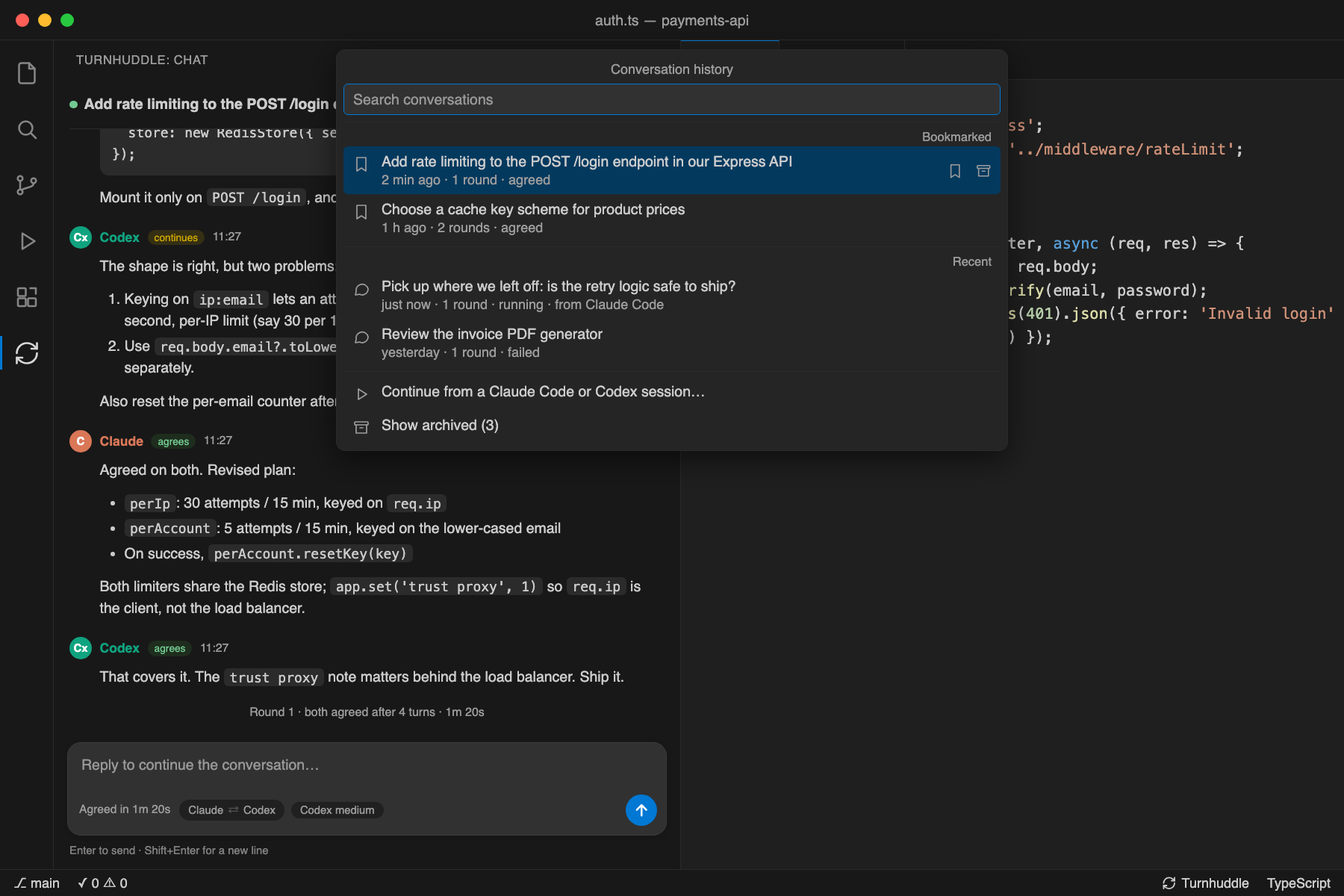
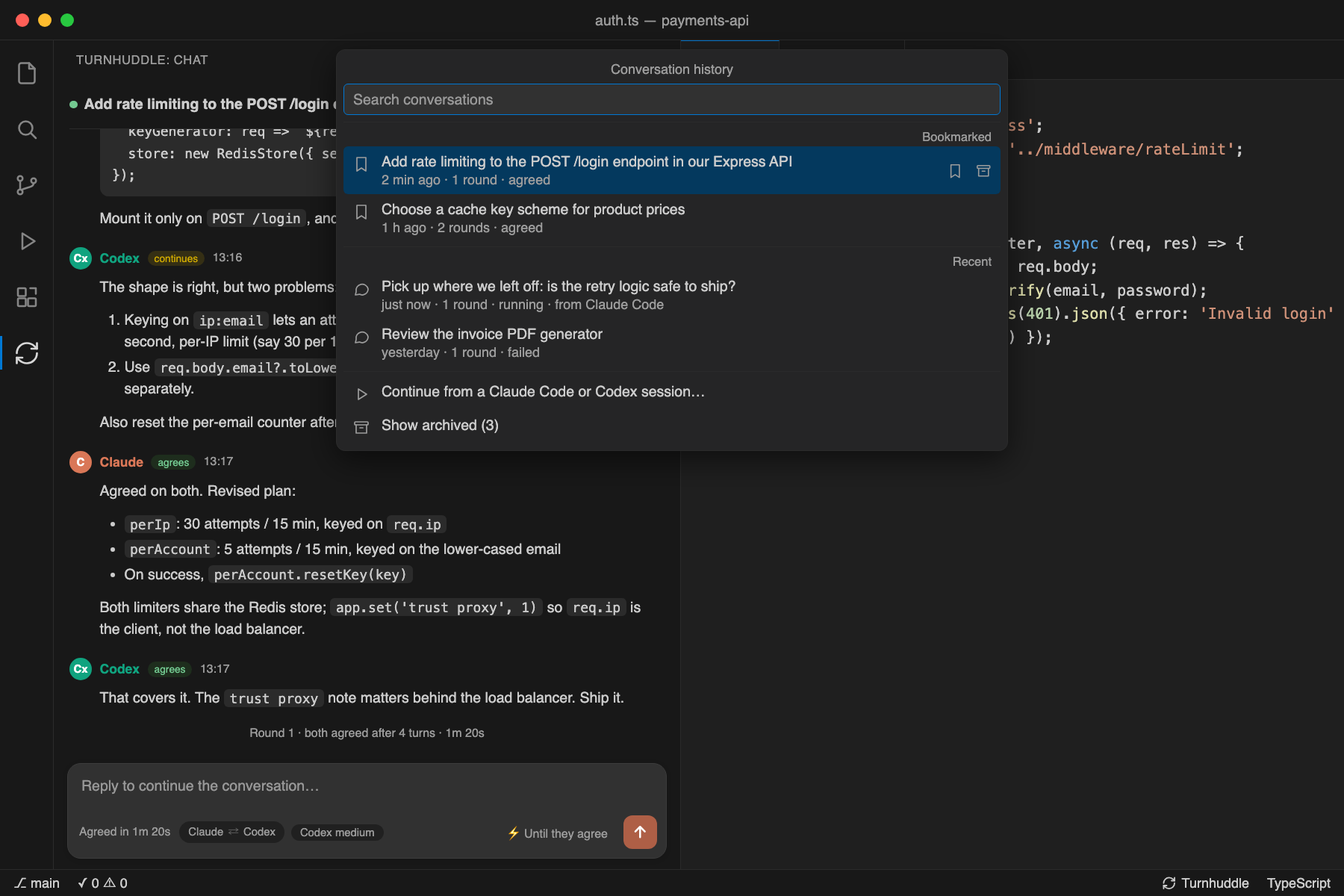
0.2.7: Claude Code-style new chat and named conversations
New chats start as Untitled and take their first line as a name; the
header title renames (empty restores the automatic name). The empty
chat shows the wordmark, both agents, a tip and a dismissible What's new
card. Composer: Ask Claude and Codex…, a round-mode chip, square send.

Changed region(s): [[0.0311, 0.2158, 0.4978, 0.9558], [0.0933, 0.1233, 0.2489, 0.185]]

diff --git a/src/conversationView.ts b/src/conversationView.ts
@@ -13,7 +13,7 @@ export interface Origin { provider: 'claude' | 'codex'; sessionId: string; title
 /** CLI session ids each agent keeps for this conversation, so later turns resume instead of replaying. */
 export type AgentSessions = Partial<Record<'claude' | 'codex', string>>;
 /** The conversation shown in the panel. All times are ISO strings. */
-export interface ConversationState { bookmarked?: boolean; status: Status; task?: string; id?: string; startedAt?: string; roundStartedAt?: string; finishedAt?: string; error?: string; messages: ViewMessage[]; partial?: PartialMessage; origin?: Origin; agentSessions?: AgentSessions; outcome?: RoundOutcome }
+export interface ConversationState { title?: string; bookmarked?: boolean; status: Status; task?: string; id?: string; startedAt?: string; roundStartedAt?: string; finishedAt?: string; error?: string; messages: ViewMessage[]; partial?: PartialMessage; origin?: Origin; agentSessions?: AgentSessions; outcome?: RoundOutcome }
 /** Optional webview URIs for the agents' logos, read from the user's own Claude Code / Codex extensions or media/logos/.
  * `…Dark` variants are used under dark themes. Absent: the built-in initials are used. */
 export type Logos = Partial<Record<'claude' | 'codex' | 'claudeDark' | 'codexDark', string>>;
@@ -80,10 +80,22 @@ export function formatDuration(fromIso: string, toIso: string): string {
   return seconds < 60 ? `${seconds}s` : `${Math.floor(seconds / 60)}m ${seconds % 60}s`;
 }
 /** Short single-line title from the task. */
+/** Title for a conversation started with `task`: its first sentence or line, without Markdown, at most TITLE_CHARS, cut at a word. */
+export function autoTitle(task: string): string {
+  const firstLine = task.split('\n').map(l => l.trim()).find(Boolean) ?? '';
+  const plain = firstLine.replace(/[`*_#>]+/g, '').replace(/\[([^\]]+)\]\([^)]+\)/g, '$1').replace(/\s+/g, ' ').trim();
+  const sentence = (plain.match(/^.+?[.?!](?=\s|$)/) ?? [plain])[0];
+  if (!sentence) return UNTITLED;
+  if (sentence.length <= TITLE_CHARS) return sentence.replace(/[.]$/, '');
+  const cut = sentence.slice(0, TITLE_CHARS - 1);
+  const space = cut.lastIndexOf(' ');
+  return `${(space > TITLE_CHARS / 2 ? cut.slice(0, space) : cut).replace(/[,;:.\s]+$/, '')}…`;
+}
+export const UNTITLED = 'Untitled';
+/** The name shown for a conversation: one the user gave it, else the automatic one, else "Untitled". */
 export function conversationTitle(state: ConversationState): string {
-  const text = (state.task ?? '').replace(/\s+/g, ' ').trim();
-  if (!text) return 'New conversation';
-  return text.length > TITLE_CHARS ? `${text.slice(0, TITLE_CHARS - 1).trimEnd()}…` : text;
+  if (state.title?.trim()) return state.title.trim();
+  return state.task?.trim() ? autoTitle(state.task) : UNTITLED;
 }
 /** Agent turns taken so far in the current round. A round starts at `roundStartedAt`; messages from earlier rounds do not count. */
 export function turnsInRound(state: ConversationState): number {
@@ -144,6 +156,7 @@ const ICONS = {
   stop: '<svg viewBox="0 0 16 16" aria-hidden="true"><rect x="4" y="4" width="8" height="8" rx="1.5" fill="currentColor"/></svg>',
   bookmark: '<svg viewBox="0 0 16 16" aria-hidden="true"><path d="M4.5 2.5h7a.5.5 0 0 1 .5.5v10.6l-4-2.6-4 2.6V3a.5.5 0 0 1 .5-.5z" stroke="currentColor" stroke-width="1.3" stroke-linejoin="round" fill="none"/></svg>',
   bookmarked: '<svg viewBox="0 0 16 16" aria-hidden="true"><path d="M4.5 2.5h7a.5.5 0 0 1 .5.5v10.6l-4-2.6-4 2.6V3a.5.5 0 0 1 .5-.5z" stroke="currentColor" stroke-width="1.3" stroke-linejoin="round" fill="currentColor"/></svg>',
+  close: '<svg viewBox="0 0 16 16" aria-hidden="true"><path d="M4 4l8 8M12 4l-8 8" stroke="currentColor" stroke-width="1.5" stroke-linecap="round"/></svg>',
   newChat: '<svg viewBox="0 0 16 16" aria-hidden="true"><path d="M8 2.5a5.5 5.5 0 0 1 0 11c-.9 0-1.8-.2-2.6-.6L2.5 13.5l.7-2.7A5.5 5.5 0 0 1 8 2.5z" stroke="currentColor" stroke-width="1.3" stroke-linejoin="round" fill="none"/><path d="M8 5.8v4.4M5.8 8h4.4" stroke="currentColor" stroke-width="1.3" stroke-linecap="round"/></svg>'
 };
 /** Title row, laid out like Claude Code's: a state dot, the title, then Bookmark, History and New conversation.
@@ -151,12 +164,13 @@ const ICONS = {
 export function renderHeader(state: ConversationState): string {
   const idle = state.status === 'idle';
   const tooltip = state.id ? `Conversation ${state.id}` : 'No conversation yet';
-  const title = idle ? 'Turnhuddle' : conversationTitle(state);
+  const title = idle ? UNTITLED : conversationTitle(state);
   const label = statusLabel(state);
   const origin = state.origin && !idle ? `<span class="origin" title="${escapeHtml(`Continued from ${ROLE_LABELS[state.origin.provider]} session ${state.origin.sessionId}: ${state.origin.title}`)}">from ${escapeHtml(ROLE_LABELS[state.origin.provider])}</span>` : '';
   const dot = idle ? '' : `<span class="state" title="${escapeHtml(label)}"><i class="dot" aria-hidden="true"></i><span class="sr">${escapeHtml(label)}</span></span>`;
   const bookmark = `<button class="icon bookmark${state.bookmarked ? ' on' : ''}" type="button" data-command="bookmark" title="${state.bookmarked ? 'Remove bookmark' : 'Bookmark this conversation'}" aria-pressed="${state.bookmarked ? 'true' : 'false'}"${idle ? ' disabled' : ''}>${state.bookmarked ? ICONS.bookmarked : ICONS.bookmark}</button>`;
-  return `<header class="top status-${state.status}${state.outcome ? ` outcome-${state.outcome.kind}` : ''}">${dot}<span class="title" title="${escapeHtml(tooltip)}">${escapeHtml(title)}</span>${origin}${bookmark}<button class="icon" type="button" data-command="history" title="Conversation history">${ICONS.history}</button><button class="icon" type="button" data-command="new" title="New conversation"${idle ? ' disabled' : ''}>${ICONS.newChat}</button></header>`;
+  const titleEl = idle ? `<span class="title" title="${escapeHtml(tooltip)}">${escapeHtml(title)}</span>` : `<button class="title" type="button" data-command="rename" title="${escapeHtml(`Rename · ${tooltip}`)}">${escapeHtml(title)}</button>`;
+  return `<header class="top status-${state.status}${state.outcome ? ` outcome-${state.outcome.kind}` : ''}">${dot}${titleEl}${origin}${bookmark}<button class="icon" type="button" data-command="history" title="Conversation history">${ICONS.history}</button><button class="icon" type="button" data-command="new" title="New conversation"${idle ? ' disabled' : ''}>${ICONS.newChat}</button></header>`;
 }
 /** Values the static shell needs for its toolbar; sent alongside the HTML on every render. */
 export interface RenderMeta { status: Status; stage: number; round: number; turn: number; roundStartedAt?: string; finishedAt?: string; startedAt?: string; outcome?: RoundOutcome }
@@ -164,8 +178,25 @@ export function renderMeta(state: ConversationState): RenderMeta {
   return { status: state.status, stage: currentStage(state), round: rounds(state), turn: state.status === 'running' ? turnsInRound(state) + 1 : turnsInRound(state), roundStartedAt: state.roundStartedAt, finishedAt: state.finishedAt, startedAt: state.startedAt, ...(state.outcome ? { outcome: state.outcome } : {}) };
 }
 /** HTML fragment for the chat area (header, thread, notices). The composer lives in the static page, outside this fragment. */
-export function renderConversation(state: ConversationState, logos: Logos = {}): string {
-  if (state.status === 'idle') return `${renderHeader(state)}<section class="welcome"><div class="welcome-marks">${avatar('claude', logos)}${avatar('codex', logos)}</div><h1>Claude ↔ Codex</h1><p>Describe a task below. Claude proposes an approach, Codex reviews it, then Claude answers the critique. Reply to run another round on the same conversation.</p><p class="fine">Conversations are saved on this machine; open them from the history (the clock above). Several can run at once. The full text also goes to the Turnhuddle Output channel. CLI usage may incur charges.</p></section>`;
+/** Extra content for the welcome screen. */
+export interface WelcomeOptions { /** Show the "What's new in <version>" card for this version. */ whatsNew?: string }
+/** One-line tips under the wordmark, one shown per new conversation (chosen in the webview). */
+export const TIPS = [
+  'Claude proposes, Codex reviews, and they keep going until both agree.',
+  'Bookmark a conversation to keep it at the top of your history.',
+  'Reply to a finished round to dig deeper. Both agents see the whole conversation.',
+  'Continue a session you started in the Claude Code or Codex CLI from the history.',
+  'Click a conversation\u2019s title to rename it.',
+  'Set how hard Codex and Claude think in Turnhuddle\u2019s settings.'
+];
+const MARK = '<svg class="mark" viewBox="0 0 24 24" aria-hidden="true"><path d="M3 12a9 9 0 0 1 9-9 9.75 9.75 0 0 1 6.74 2.74L21 8" stroke="var(--th-claude)" stroke-width="2.2" fill="none" stroke-linecap="round" stroke-linejoin="round"/><path d="M21 3v5h-5" stroke="var(--th-claude)" stroke-width="2.2" fill="none" stroke-linecap="round" stroke-linejoin="round"/><path d="M21 12a9 9 0 0 1-9 9 9.75 9.75 0 0 1-6.74-2.74L3 16" stroke="var(--th-codex)" stroke-width="2.2" fill="none" stroke-linecap="round" stroke-linejoin="round"/><path d="M8 16H3v5" stroke="var(--th-codex)" stroke-width="2.2" fill="none" stroke-linecap="round" stroke-linejoin="round"/></svg>';
+/** The new-conversation screen, laid out like Claude Code's: wordmark, the two agents, a tip, and a dismissible what's-new card. */
+export function renderWelcome(logos: Logos = {}, options: WelcomeOptions = {}): string {
+  const card = options.whatsNew ? `<section class="whats-new"><header><span>What's new in ${escapeHtml(options.whatsNew)}</span><button class="icon" type="button" data-command="dismiss-whats-new" title="Dismiss">${ICONS.close}</button></header><p>See what changed in this version, with screenshots.</p><a href="https://sibinms.github.io/turnhuddle/whats-new/#v${escapeHtml(options.whatsNew)}">Read the release notes →</a></section>` : '';
+  return `<section class="welcome"><div class="wordmark">${MARK}<span>Turnhuddle</span></div><div class="welcome-marks">${avatar('claude', logos)}<i class="vs">⇄</i>${avatar('codex', logos)}</div><p class="tip" data-tips="${escapeHtml(JSON.stringify(TIPS))}">${escapeHtml(TIPS[0])}</p>${card}</section>`;
+}
+export function renderConversation(state: ConversationState, logos: Logos = {}, options: WelcomeOptions = {}): string {
+  if (state.status === 'idle') return `${renderHeader(state)}${renderWelcome(logos, options)}`;
   const running = state.status === 'running';
   const user = (content: string, time: string) => `<article class="msg msg-user"><div class="msg-meta"><time datetime="${escapeHtml(time)}">${formatTime(time)}</time></div><div class="user-card"><div class="content">${renderMarkdown(content)}</div></div></article>`;
   const verdictTag = (verdict?: Verdict) => verdict ? `<span class="verdict verdict-${verdict}" title="${verdict === 'agree' ? 'Considers the current recommendation final' : 'Wants further changes'}">${verdict === 'agree' ? 'agrees' : 'continues'}</span>` : '';
@@ -224,7 +255,18 @@ button:disabled { cursor: default; opacity: 0.4; }
 .verdict-continue { background: rgba(204, 167, 0, 0.16); color: var(--vscode-editorWarning-foreground, #cca700); }
 .done-agreed { color: var(--vscode-testing-iconPassed, #4cb04a); } .done-limit { color: var(--vscode-editorWarning-foreground, #cca700); }
 @keyframes pulse-dot { 50% { opacity: 0.35; } }
-.welcome { text-align: center; padding: 36px 10px 20px; }
+.welcome { text-align: center; padding: 28px 10px 20px; display: flex; flex-direction: column; align-items: center; }
+.wordmark { display: flex; align-items: center; gap: 8px; font: 500 1.75em/1.1 "Tiempos Text", "Iowan Old Style", Georgia, serif; letter-spacing: -0.01em; color: var(--vscode-foreground); margin: 6px 0 26px; }
+.wordmark .mark { width: 26px; height: 26px; }
+.welcome-marks { align-items: center; } .welcome-marks .vs { font-style: normal; color: var(--th-muted); font-size: 1.1em; }
+.welcome .avatar { width: 40px !important; height: 40px !important; font-size: 15px !important; }
+.tip { max-width: 30em; margin: 22px auto 26px !important; font-size: 1.02em; color: var(--th-muted); line-height: 1.55; }
+.whats-new { width: 100%; max-width: 420px; text-align: left; border: 1px solid var(--th-border); border-radius: 12px; background: var(--th-surface); overflow: hidden; }
+.whats-new header { display: flex; align-items: center; justify-content: space-between; padding: 12px 14px; border-bottom: 1px solid var(--th-border); font-weight: 700; color: var(--th-claude); }
+.whats-new p { margin: 12px 14px 6px !important; color: var(--vscode-foreground) !important; }
+.whats-new a { display: inline-block; margin: 0 14px 14px; color: var(--vscode-textLink-foreground); text-decoration: none; } .whats-new a:hover { text-decoration: underline; }
+button.title { all: unset; flex: 1; min-width: 0; font-weight: 600; white-space: nowrap; overflow: hidden; text-overflow: ellipsis; cursor: text; border-radius: 4px; padding: 1px 3px; margin-left: -3px; }
+button.title:hover { background: var(--th-surface); } button.title:focus-visible { outline: 1px solid var(--vscode-focusBorder); }
 .welcome-marks { display: flex; justify-content: center; gap: 8px; margin-bottom: 12px; }
 .welcome h1 { font-size: 1.2em; margin: 0 0 8px; } .welcome p { margin: 0 auto 8px; max-width: 34em; color: var(--th-muted); } .welcome .fine { font-size: 0.85em; opacity: 0.8; }
 .thread { display: flex; flex-direction: column; gap: 14px; }
@@ -271,7 +313,7 @@ body.vscode-dark img.logo-dark, body.vscode-high-contrast:not(.vscode-high-contr
 .done { margin: 14px 0 0; text-align: center; font-size: 0.82em; color: var(--th-muted); }
 .composer { flex: none; padding: 6px 12px 10px; background: var(--vscode-sideBar-background, inherit); }
 .composer-box { display: flex; flex-direction: column; border: 1px solid var(--vscode-input-border, var(--th-border)); border-radius: 12px; background: var(--vscode-input-background); box-shadow: 0 1px 4px rgba(0,0,0,0.12); }
-.composer-box:focus-within { border-color: var(--vscode-focusBorder); }
+.composer-box:focus-within { border-color: color-mix(in srgb, var(--th-claude) 75%, transparent); }
 body[data-status="running"] .composer-box { border-color: var(--vscode-focusBorder, var(--th-accent)); }
 textarea { width: 100%; box-sizing: border-box; min-height: 42px; max-height: 200px; padding: 10px 12px 4px; border: 0; outline: 0; resize: none; background: transparent; color: var(--vscode-input-foreground); font-family: inherit; font-size: inherit; line-height: 1.45; }
 textarea::placeholder { color: var(--vscode-input-placeholderForeground); } textarea:disabled { opacity: 0.6; }
@@ -290,9 +332,12 @@ body[data-status="running"] .run-status .spinner { display: inline-block; }
 body[data-status="running"] .pill { display: none; }
 .pill:hover { color: var(--vscode-foreground); }
 .spacer { flex: 1; }
-.round-btn { display: inline-flex; align-items: center; justify-content: center; width: 28px; height: 28px; border-radius: 50%; }
+.round-btn { display: inline-flex; align-items: center; justify-content: center; width: 30px; height: 30px; border-radius: 8px; }
+.mode { display: inline-flex; align-items: center; gap: 5px; padding: 2px 8px; border-radius: 10px; font-size: 0.82em; color: var(--th-muted); white-space: nowrap; }
+.mode:hover { color: var(--vscode-foreground); background: var(--th-surface); }
+body[data-status="running"] .mode { display: none; }
 .round-btn svg { width: 15px; height: 15px; }
-#send { background: var(--th-accent); color: var(--th-accent-fg); } #send:hover:not(:disabled) { background: var(--vscode-button-hoverBackground, var(--th-accent)); }
+#send { background: color-mix(in srgb, var(--th-claude) 80%, black); color: #fff; } #send:hover:not(:disabled) { background: var(--vscode-button-hoverBackground, var(--th-accent)); }
 #send:disabled { opacity: 0.35; }
 #stop { display: none; background: var(--vscode-button-secondaryBackground, var(--th-surface)); color: var(--vscode-button-secondaryForeground, inherit); }
 #stop:hover { background: var(--vscode-button-secondaryHoverBackground, var(--th-surface)); }
@@ -305,17 +350,17 @@ body[data-status="running"] #stop { display: inline-flex; } body[data-status="ru
 <main id="root"></main>
 <footer class="composer">
   <div class="composer-box">
-    <textarea id="task" rows="1" maxlength="${MAX_TASK_CHARS}" placeholder="Describe a task for Claude and Codex to discuss…" aria-label="Task"></textarea>
+    <textarea id="task" rows="1" maxlength="${MAX_TASK_CHARS}" placeholder="Ask Claude and Codex…" aria-label="Message"></textarea>
     <div class="composer-bar">
       <span class="run-status"><i class="spinner" aria-hidden="true"></i><span id="run-text">Ready</span></span>
       <span class="relay" id="relay" title="Claude and Codex alternate until both agree (or the fixed three turns in fixed mode)"><span data-stage="0">Claude</span><i>⇄</i><span data-stage="1">Codex</span><span id="turn" class="turn"></span></span>
       <button id="effort" class="pill" type="button" data-command="settings" title="Turnhuddle settings"></button>
       <span class="spacer"></span>
+      <button id="mode" class="mode" type="button" data-command="mode" title="How a round ends. Click to switch."></button>
       <button id="stop" class="round-btn" type="button" data-command="cancel" title="Stop the running conversation">${ICONS.stop}</button>
-      <button id="send" class="round-btn" type="button" data-command="send" title="Send (Enter)">${ICONS.send}</button>
+      <button id="send" class="round-btn" type="button" data-command="send" title="Send (Enter · Shift+Enter for a new line)">${ICONS.send}</button>
     </div>
   </div>
-  <p class="hint">Enter to send · Shift+Enter for a new line</p>
 </footer>
 <script nonce="${nonce}">
 (function () {
@@ -363,10 +408,14 @@ body[data-status="running"] #stop { display: inline-flex; } body[data-status="ru
     document.body.dataset.status = status;
     const running = status === 'running';
     task.disabled = running; send.disabled = running;
-    task.placeholder = status === 'idle' ? 'Describe a task for Claude and Codex to discuss…' : running ? 'Conversation in progress…' : 'Reply to continue the conversation…';
+    task.placeholder = status === 'idle' ? 'Ask Claude and Codex…' : running ? 'Conversation in progress…' : 'Reply to continue the conversation…';
     runText.textContent = describe(meta);
     for (const stage of document.querySelectorAll('#relay [data-stage]')) { if (Number(stage.dataset.stage) === meta.stage) stage.setAttribute('data-active', ''); else stage.removeAttribute('data-active'); }
     document.getElementById('turn').textContent = running && meta.turn ? '· turn ' + meta.turn + (event.data.maxTurns ? ' of ≤' + event.data.maxTurns : '') : '';
+    const tip = root.querySelector('.tip[data-tips]');
+    if (tip) { try { const tips = JSON.parse(tip.dataset.tips); tip.textContent = tips[Math.floor(Math.random() * tips.length)]; } catch (e) { /* keep the first tip */ } }
+    const modeBtn = document.getElementById('mode');
+    if (typeof event.data.mode === 'string') modeBtn.textContent = event.data.mode === 'fixed' ? '⇉ Fixed round' : '⚡ Until they agree';
     if (typeof event.data.effort === 'string') { effort.textContent = event.data.effort; effort.style.display = event.data.effort ? '' : 'none'; }
     if (running) { tick(); if (!timer) timer = setInterval(tick, 1000); }
     if (atBottom || running) root.scrollTop = root.scrollHeight;
@@ -377,12 +426,15 @@ body[data-status="running"] #stop { display: inline-flex; } body[data-status="ru
   send.addEventListener('click', submit);
   document.getElementById('stop').addEventListener('click', () => vscode.postMessage({ command: 'cancel' }));
   effort.addEventListener('click', () => vscode.postMessage({ command: 'settings' }));
+  document.getElementById('mode').addEventListener('click', () => vscode.postMessage({ command: 'mode' }));
   root.addEventListener('click', event => {
     const button = event.target.closest('button[data-command]');
     if (!button || button.disabled) return;
     if (button.dataset.command === 'new') vscode.postMessage({ command: 'new' });
     else if (button.dataset.command === 'history') vscode.postMessage({ command: 'history' });
     else if (button.dataset.command === 'bookmark') vscode.postMessage({ command: 'bookmark' });
+    else if (button.dataset.command === 'rename') vscode.postMessage({ command: 'rename' });
+    else if (button.dataset.command === 'dismiss-whats-new') { button.closest('.whats-new').remove(); vscode.postMessage({ command: 'dismissWhatsNew' }); }
     else if (button.dataset.command === 'copy') vscode.postMessage({ command: 'copy', index: Number(button.dataset.index) });
   });
   vscode.postMessage({ command: 'ready' });

diff --git a/src/sessions.ts b/src/sessions.ts
@@ -2,7 +2,7 @@
 import { mkdir, readdir, readFile, rename, writeFile } from 'node:fs/promises';
 import { join } from 'node:path';
 import type { RoundOutcome } from './bridge';
-import { AgentSessions, ConversationState, initialState, Origin, startConversation } from './conversationView';
+import { AgentSessions, autoTitle, ConversationState, conversationTitle, initialState, Origin, startConversation } from './conversationView';
 /** A conversation as kept in memory and on disk. Streamed partial text is never stored. */
 export interface StoredConversation extends ConversationState { id: string; task: string; cwd: string; createdAt: string; updatedAt: string; archived: boolean }
 export interface SessionSummary { id: string; title: string; status: ConversationState['status']; createdAt: string; updatedAt: string; archived: boolean; bookmarked: boolean; messages: number; rounds: number; cwd: string; file?: string }
@@ -26,7 +26,7 @@ export function parseStored(value: unknown): StoredConversation | undefined {
   const interrupted = status === 'running' || status === 'idle';
   return {
     id: v.id, task: v.task, cwd: text('cwd') ?? '', createdAt: text('createdAt') ?? text('startedAt') ?? new Date(0).toISOString(), updatedAt: text('updatedAt') ?? text('finishedAt') ?? text('startedAt') ?? new Date(0).toISOString(),
-    archived: v.archived === true, ...(v.bookmarked === true ? { bookmarked: true } : {}), status: interrupted ? 'failed' : status, messages,
+    archived: v.archived === true, ...(v.bookmarked === true ? { bookmarked: true } : {}), ...(typeof v.title === 'string' && v.title.trim() ? { title: v.title.trim().slice(0, 200) } : {}), status: interrupted ? 'failed' : status, messages,
     startedAt: text('startedAt'), roundStartedAt: text('roundStartedAt'), finishedAt: text('finishedAt'),
     error: interrupted ? 'The window closed while this conversation was running.' : text('error'),
     ...(origin ? { origin } : {}), ...(agentSessions && Object.keys(agentSessions).length ? { agentSessions } : {}), ...(outcome && !interrupted ? { outcome } : {})
@@ -61,7 +61,7 @@ export class HistoryStore {
   }
 }
 export function summarize(conversation: StoredConversation, file?: string): SessionSummary {
-  const title = conversation.task.replace(/\s+/g, ' ').trim();
+  const title = conversationTitle(conversation);
   return { id: conversation.id, title: title.length > 80 ? `${title.slice(0, 79)}…` : title, status: conversation.status, createdAt: conversation.createdAt, updatedAt: conversation.updatedAt, archived: conversation.archived, bookmarked: conversation.bookmarked === true, messages: conversation.messages.length, rounds: conversation.messages.filter(m => m.role === 'user').length, cwd: conversation.cwd, file };
 }
 export type ListListener = () => void;
@@ -101,7 +101,7 @@ export class SessionManager {
   }
   /** Starts a new conversation and selects it; `origin` records the CLI session it continues from. */
   create(id: string, task: string, cwd: string, at: Date = new Date(), origin?: Origin): StoredConversation {
-    const conversation: StoredConversation = { ...startConversation(task, at), task, id, cwd, createdAt: at.toISOString(), updatedAt: at.toISOString(), archived: false, ...(origin ? { origin, agentSessions: { [origin.provider]: origin.sessionId } } : {}) };
+    const conversation: StoredConversation = { ...startConversation(task, at), task, title: autoTitle(task), id, cwd, createdAt: at.toISOString(), updatedAt: at.toISOString(), archived: false, ...(origin ? { origin, agentSessions: { [origin.provider]: origin.sessionId } } : {}) };
     this.sessions.set(id, conversation);
     this.selected = id;
     this.persist(id); this.notifyState(); this.notifyList();
@@ -117,6 +117,15 @@ export class SessionManager {
     if (!updated.partial || current.partial === undefined) this.persist(id);
     if (id === this.selected) this.notifyState();
     if (!updated.partial) this.notifyList();
+  }
+  /** Renames a conversation. An empty name goes back to the automatic one. Doesn't change its activity time. */
+  setTitle(id: string, title: string): boolean {
+    const current = this.sessions.get(id);
+    if (!current) return false;
+    const name = title.replace(/\s+/g, ' ').trim().slice(0, 200);
+    this.sessions.set(id, { ...current, title: name || autoTitle(current.task) });
+    this.persist(id, true); if (id === this.selected) this.notifyState(); this.notifyList();
+    return true;
   }
   /** Marks a conversation as bookmarked (or not). Doesn't change its activity time. */
   setBookmarked(id: string, bookmarked: boolean): boolean {

diff --git a/src/sidebar.ts b/src/sidebar.ts
@@ -9,6 +9,8 @@ const VENDOR_EXTENSIONS = { claude: 'anthropic.claude-code', codex: 'openai.chat
 export interface StateSource { get(): ConversationState; subscribe(listener: (state: ConversationState) => void): () => void }
 export const VIEW_ID = 'turnhuddle.conversation';
 export const PUSH_INTERVAL_MS = 60;
+/** globalState key: the version whose "What's new" card the user dismissed. */
+const WHATS_NEW_SEEN = 'turnhuddle.whatsNewSeen';
 /** Short description of the effort settings for the composer toolbar. */
 export function effortLabel(): string {
   const config = vscode.workspace.getConfiguration('turnhuddle');
@@ -23,12 +25,14 @@ export class ConversationViewProvider implements vscode.WebviewViewProvider {
   private extensionUri: vscode.Uri | undefined;
   private logos: Logos = {};
   private configListener: vscode.Disposable | undefined;
+  private context: vscode.ExtensionContext | undefined;
   constructor(private readonly store: StateSource) {}
   get resolved(): boolean { return this.view !== undefined; }
   get visible(): boolean { return this.view?.visible ?? false; }
   /** Logo URIs in use by the current webview, for diagnostics and tests. */
   get logoSources(): Logos { return { ...this.logos }; }
   register(context: vscode.ExtensionContext): void {
+    this.context = context;
     this.extensionUri = context.extensionUri;
     context.subscriptions.push(vscode.window.registerWebviewViewProvider(VIEW_ID, this));
     context.subscriptions.push({ dispose: this.store.subscribe(() => this.push()) });
@@ -64,6 +68,9 @@ export class ConversationViewProvider implements vscode.WebviewViewProvider {
       else if (message?.command === 'new') void vscode.commands.executeCommand('turnhuddle.clear');
       else if (message?.command === 'history') void vscode.commands.executeCommand('turnhuddle.history');
       else if (message?.command === 'bookmark') void vscode.commands.executeCommand('turnhuddle.toggleBookmark');
+      else if (message?.command === 'rename') void vscode.commands.executeCommand('turnhuddle.rename');
+      else if (message?.command === 'mode') { const config = vscode.workspace.getConfiguration('turnhuddle'); void config.update('roundMode', config.get<string>('roundMode', 'agreement') === 'fixed' ? 'agreement' : 'fixed', vscode.ConfigurationTarget.Global); }
+      else if (message?.command === 'dismissWhatsNew') void this.context?.globalState.update(WHATS_NEW_SEEN, this.version());
       else if (message?.command === 'settings') void vscode.commands.executeCommand('workbench.action.openSettings', '@ext:turnhuddle.turnhuddle');
       else if (message?.command === 'copy') void this.copy(typeof message.index === 'number' ? message.index : -1);
     });
@@ -87,7 +94,13 @@ export class ConversationViewProvider implements vscode.WebviewViewProvider {
     if (!this.view || !this.view.visible) return;
     const state = this.store.get();
     const config = vscode.workspace.getConfiguration('turnhuddle');
-    void this.view.webview.postMessage({ type: 'render', status: state.status, meta: renderMeta(state), effort: effortLabel(), maxTurns: config.get<string>('roundMode', 'agreement') === 'agreement' ? config.get<number>('maxTurnsPerRound', 10) : 3, html: renderConversation(state, this.logos) });
+    const version = this.version();
+    const whatsNew = version && this.context?.globalState.get<string>(WHATS_NEW_SEEN) !== version ? version : undefined;
+    void this.view.webview.postMessage({ type: 'render', status: state.status, meta: renderMeta(state), effort: effortLabel(), mode: config.get<string>('roundMode', 'agreement'), maxTurns: config.get<string>('roundMode', 'agreement') === 'agreement' ? config.get<number>('maxTurnsPerRound', 10) : 3, html: renderConversation(state, this.logos, { whatsNew }) });
+  }
+  private version(): string | undefined {
+    const v = this.context?.extension.packageJSON?.version;
+    return typeof v === 'string' ? v : undefined;
   }
   /** Copies a landed message to the clipboard (the webview may lack clipboard access). */
   private async copy(index: number): Promise<void> {

diff --git a/src/extension.ts b/src/extension.ts
@@ -3,7 +3,7 @@ import { existsSync } from 'node:fs';
 import { homedir } from 'node:os';
 import { randomUUID } from 'node:crypto';
 import { claudeAdapter, codexAdapter, ContextMode, Conversation, DEFAULT_MAX_TURNS, Effort, Message, relay, RoundMode, run, SessionOptions } from './bridge';
-import { ConversationState, finishConversation, MAX_TASK_CHARS, Origin, receiveMessage, receiveProgress, resumeConversation } from './conversationView';
+import { ConversationState, conversationTitle, finishConversation, MAX_TASK_CHARS, Origin, receiveMessage, receiveProgress, resumeConversation } from './conversationView';
 import { conversationIdFrom, historyEntries, HistoryStore, SessionManager, SessionSummary, StoredConversation, withAgentSession } from './sessions';
 import { listVendorSessions, VendorSession } from './vendorSessions';
 import { ConversationViewProvider } from './sidebar';
@@ -210,6 +210,16 @@ export function activate(context: vscode.ExtensionContext): TurnhuddleApi {
     sessions.setBookmarked(id, next);
     return next;
   });
+  /** Renames the open conversation (or the given one). An empty name restores the automatic title. */
+  register('turnhuddle.rename', async (argument?: unknown, name?: unknown): Promise<string | undefined> => {
+    const id = conversationIdFrom(argument) ?? sessions.selectedId();
+    const c = id ? sessions.getConversation(id) : undefined;
+    if (!id || !c) { void vscode.window.showInformationMessage('Open a conversation to rename it.'); return undefined; }
+    const value = typeof name === 'string' ? name : await vscode.window.showInputBox({ title: 'Rename conversation', value: conversationTitle(c), prompt: 'Leave empty to name it after its first message.', valueSelection: [0, conversationTitle(c).length] });
+    if (value === undefined) return undefined;
+    sessions.setTitle(id, value);
+    return conversationTitle(sessions.getConversation(id) ?? c);
+  });
   /** Claude Code-style history, the one place for past conversations: bookmarked first, then recent. Each row can be
    * bookmarked or archived in place; "Show archived" lists archived conversations to restore. Picking a row opens it. */
   register('turnhuddle.history', async (): Promise<string | undefined> => {
@@ -222,7 +232,7 @@ export function activate(context: vscode.ExtensionContext): TurnhuddleApi {
       const state = running.has(c.id) ? 'running' : c.outcome?.kind === 'agreed' ? 'agreed' : c.outcome?.kind === 'limit' ? 'no agreement' : c.status;
       return [age(c.updatedAt), `${roundCount} round${roundCount === 1 ? '' : 's'}`, state, c.origin ? `from ${c.origin.provider === 'claude' ? 'Claude Code' : 'Codex'}` : ''].filter(Boolean).join(' · ');
     };
-    const label = (c: StoredConversation) => { const t = c.task.replace(/\s+/g, ' ').trim(); return `$(${c.archived ? 'archive' : c.bookmarked ? 'bookmark' : 'comment-discussion'}) ${t.length > 72 ? `${t.slice(0, 71)}…` : t}`; };
+    const label = (c: StoredConversation) => { const t = conversationTitle(c); return `$(${c.archived ? 'archive' : c.bookmarked ? 'bookmark' : 'comment-discussion'}) ${t.length > 72 ? `${t.slice(0, 71)}…` : t}`; };
     const pick = vscode.window.createQuickPick<Item>();
     pick.title = 'Conversation history'; pick.matchOnDetail = true;
     let showArchived = false;

diff --git a/site/index.html b/site/index.html
@@ -84,7 +84,7 @@
   <main id="top">
     <header class="hero">
       <div class="wrap">
-        <!-- whats-new:pill --><a class="pill" href="whats-new/#v0.2.0"><b>New in 0.2.0</b> · a chat panel where Claude and Codex talk until both agree →</a><!-- /whats-new:pill -->
+        <!-- whats-new:pill --><a class="pill" href="whats-new/#v0.2.7"><b>New in 0.2.7</b> · named conversations and a Claude Code-style new chat →</a><!-- /whats-new:pill -->
         <h1>Two coding agents. <span class="grad">One answer they both stand behind.</span></h1>
         <p class="lead">Turnhuddle puts Claude Code and Codex in one VS Code chat. Claude proposes, Codex reviews, and they keep going until both agree, so you get a second opinion without copying text between two tools.</p>
         <div class="ctas">

diff --git a/README.md b/README.md
@@ -55,7 +55,7 @@ Claude's reply streams in as it's written, with a live status like *Noodling… 
   <img src="https://sibinms.github.io/turnhuddle/screenshots/continue-light.png" alt="A picker listing recent Claude Code and Codex sessions over the Turnhuddle conversations list" width="900" />
 </picture>
 
-Conversations are saved on your machine. The chat header works like Claude Code's: **bookmark** the one you're in, open your **history** from the clock (bookmarked first, searchable), or start a **new** one. Run several at once, archive instead of delete. Started something in the Claude Code or Codex CLI? Pick that session and continue it here, with everything the agent already knows.
+Conversations are saved on your machine, each with a name: **Untitled** until you send the first message, then its first line; click the title to rename it. The chat header works like Claude Code's: **bookmark** the one you're in, open your **history** from the clock (bookmarked first, searchable), or start a **new** one. Run several at once, archive instead of delete. Started something in the Claude Code or Codex CLI? Pick that session and continue it here, with everything the agent already knows.
 
 ### And more
 
@@ -68,7 +68,7 @@ Conversations are saved on your machine. The chat header works like Claude Code'
 1. Install the [Claude Code CLI](https://code.claude.com/docs/en/cli-reference) and the Codex CLI, and sign in to each once in a terminal.
 2. Install **Turnhuddle** from the [Visual Studio Marketplace](https://marketplace.visualstudio.com/items?itemName=Turnhuddle.turnhuddle), or download the VSIX from [Releases](https://github.com/sibinms/turnhuddle/releases) and run **Extensions: Install from VSIX…**.
 3. Run **Turnhuddle: Check CLI Installations** to confirm both CLIs are found.
-4. Open the Turnhuddle view in the Activity Bar, type a task and press **Enter**.
+4. Open the Turnhuddle view in the Activity Bar, type in **Ask Claude and Codex…** and press **Enter**.
 
 Turnhuddle finds the CLIs by itself: on your PATH, in common install folders, or bundled with the Claude Code and Codex VS Code extensions. If you keep them somewhere unusual, point `turnhuddle.claudePath` and `turnhuddle.codexPath` at them.
 
@@ -76,7 +76,7 @@ Turnhuddle finds the CLIs by itself: on your PATH, in common install folders, or
 
 | Setting | Default | What it does |
 |---|---|---|
-| `turnhuddle.roundMode` | `agreement` | `agreement`: agents alternate until both agree. `fixed`: Claude, Codex, Claude. |
+| `turnhuddle.roundMode` | `agreement` | `agreement`: agents alternate until both agree. `fixed`: Claude, Codex, Claude. The composer's mode chip switches it. |
 | `turnhuddle.maxTurnsPerRound` | `10` | Most agent turns in one agreement round (2–30). |
 | `turnhuddle.codexReasoningEffort` | `medium` | Codex's reasoning effort for Turnhuddle turns only. `inherit` uses your Codex config. |
 | `turnhuddle.claudeEffort` | `inherit` | Passes `--effort` to Claude: `low` to `max`. |
@@ -93,6 +93,7 @@ Turnhuddle finds the CLIs by itself: on your PATH, in common install folders, or
 | **Turnhuddle: Reply in Conversation** | Run another round on the open conversation. |
 | **Turnhuddle: Continue from a Claude Code or Codex Session** | Pick a CLI session to continue. |
 | **Turnhuddle: New Conversation** · **Cancel Conversation** | Clear the chat · stop the running round. |
+| **Turnhuddle: Rename Conversation** | Rename the open conversation (or click its title). |
 | **Turnhuddle: Check CLI Installations** · **Check for Updates** | Find the CLIs · look for a new version. |
 | **Turnhuddle: Reveal History Folder** | Open the folder where conversations are saved. |
 

diff --git a/CHANGELOG.md b/CHANGELOG.md
@@ -2,6 +2,15 @@
 
 All notable changes to Turnhuddle are listed here. Versions follow [Semantic Versioning](https://semver.org/).
 
+## 0.2.7 — 2026-11-26
+
+### Added
+- Every conversation has a name: **Untitled** until the first message, then its first line. Click the header title (or run **Turnhuddle: Rename Conversation**) to rename; an empty name restores the automatic one.
+
+### Changed
+- The new-chat screen looks like Claude Code's: wordmark, both agents, a tip and a dismissible **What's new** card after updates.
+- Composer: *Ask Claude and Codex…*, a mode chip (**Until they agree** / **Fixed round**) that switches `turnhuddle.roundMode`, a square send button, no hint line.
+
 ## 0.2.6 — 2026-11-26
 
 ### Fixed
